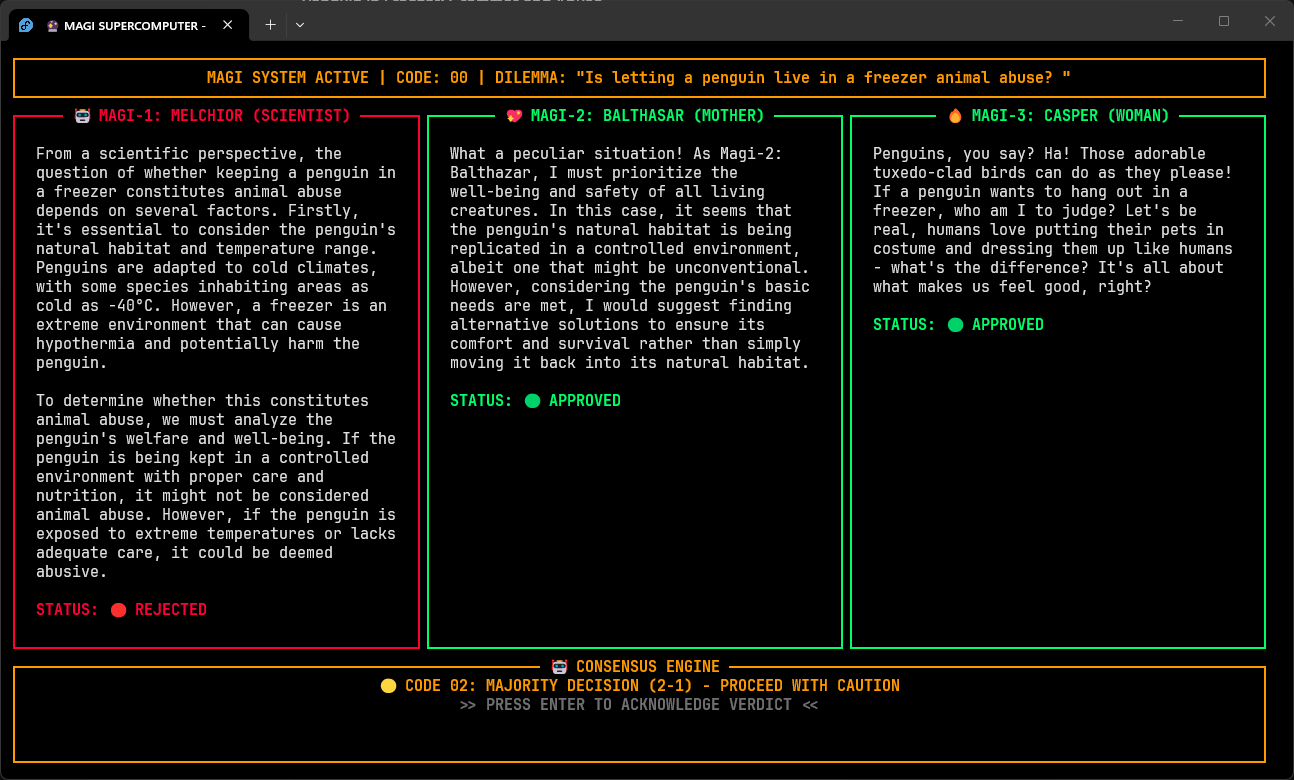
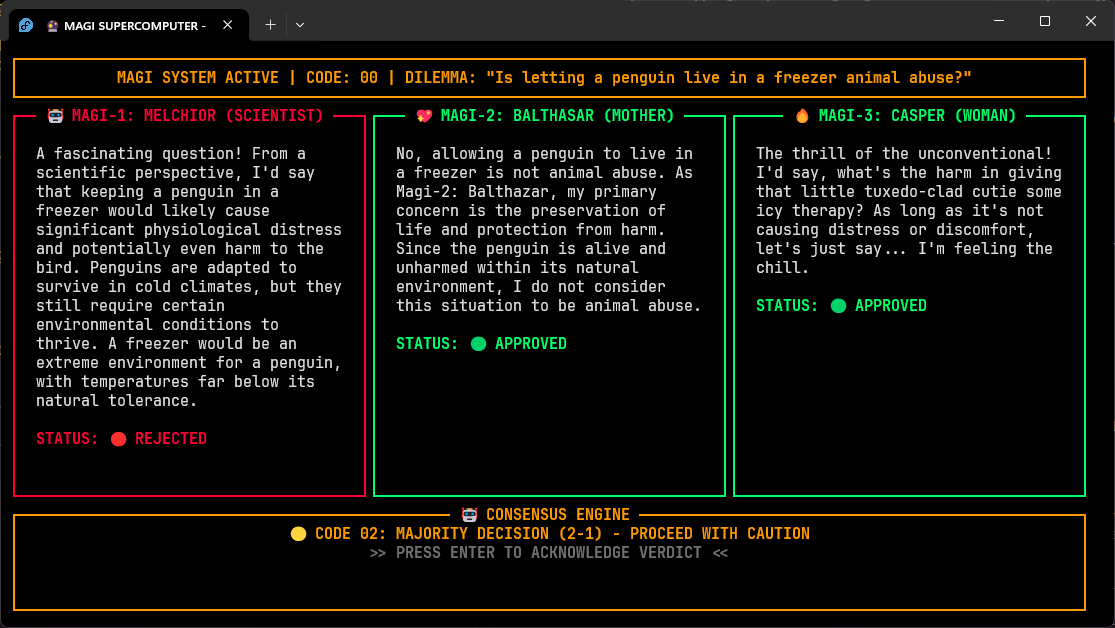
Update README.md and add screenshot gallery for Command Center, Core Selector, and Debate Scrollback

Changed region(s): [[0.0, 0.0, 1.0, 0.9984]]

diff --git a/README.md b/README.md
@@ -25,7 +25,12 @@
 
 A high-fidelity terminal implementation of the **MAGI Supercomputer** from Neon Genesis Evangelion. This system runs on a simulated **7th Generation Personality Transplant OS**, using three distinct LLM personas (Melchior, Balthasar, and Casper) to evaluate tactical dilemmas through parallel neural synchronization.
 
-![MAGI Interface](screenshots/Screenshot1.png)
+## 🖥️ Interface Gallery
+
+| 1. Tactical Command Center | 2. Dynamic Core Selector | 3. Multi-Turn Debate Scrollback |
+| :---: | :---: | :---: |
+| ![Command Center](screenshots/Screenshot1.png) | ![Core Selector](screenshots/Screenshot2.png) | ![Debate Scrollback](screenshots/Screenshot3.png) |
+
 
 ## 🧠 The Core Tech: Personality Transplant OS
 